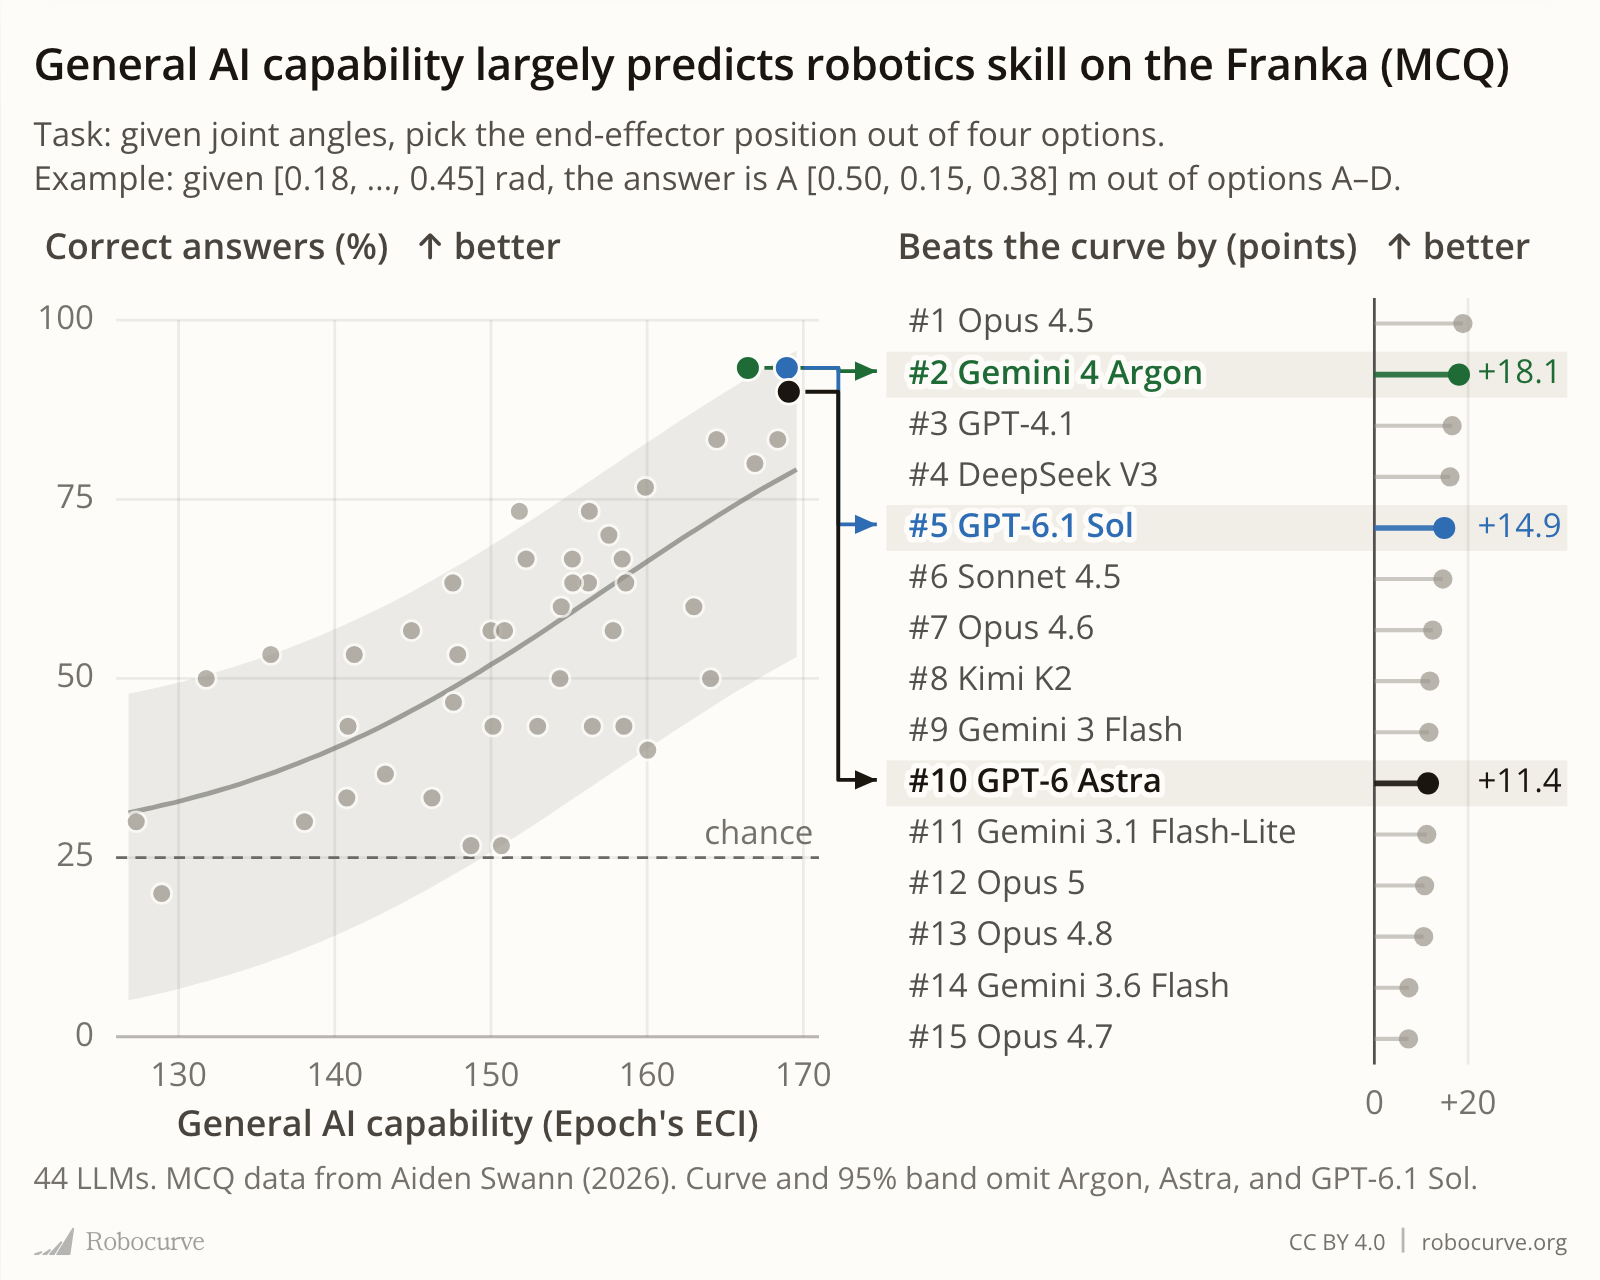
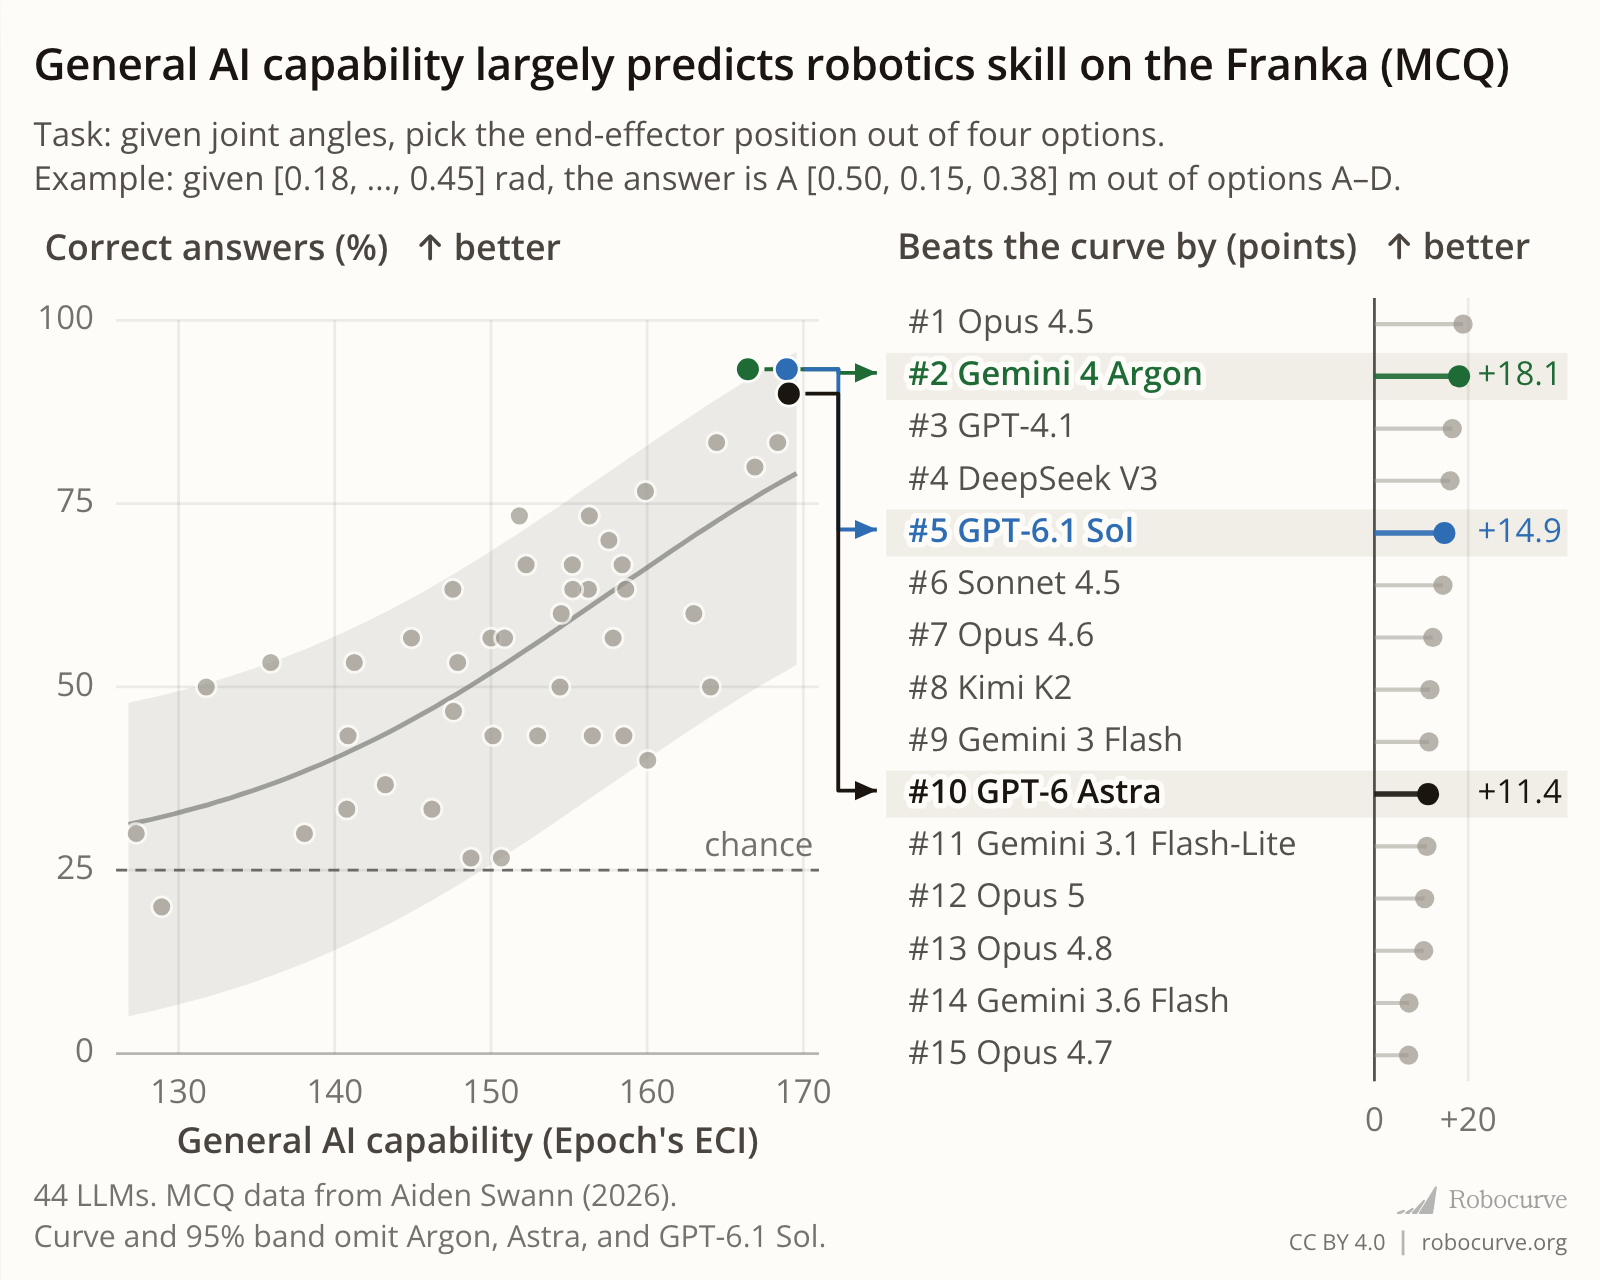
Nov-09: caption left, attribution right on the 5:4 cards
Matches the cards as posted: the bottom row holds the caption on the left and the
Robocurve / CC BY 4.0 attribution on the right. Card module synced to website 5683168.

diff --git a/tweets/2026/November/Nov-09/site/src/KinematicsCards.jsx b/tweets/2026/November/Nov-09/site/src/KinematicsCards.jsx
@@ -9,6 +9,7 @@
 import { LogoMarker, LAB, LABEL_INK } from './robodojoModels.jsx';
 import { cloneElement, useEffect, useId, useRef, useState } from 'react';
 import { useChartSize } from './useChartSize.js';
+import { Wordmark } from './components/Wordmark.jsx';
 import DATA from './kinematicsData.json';
 
 const HALO = { paintOrder: 'stroke', stroke: 'var(--surface-page, #FBFAF6)', strokeWidth: 4, strokeLinejoin: 'round' };
@@ -378,7 +379,7 @@ const KW_X = ['Beats the curve by (cm)', 'Beats the curve by (points)', 'Beats t
 const MOBILE_Y = ['Hand-position error (cm)', 'MCQs answered correctly (%)', 'IK error (cm)', 'Distance from real Panda (cm)'];
 function PairChart({ i, metric, topN = 0, mobile = false, wideLeft = false }) {
   const boxRef = useRef(null);
-  const cap = mobile ? <>44 LLMs. {['FK error', 'MCQ', 'IK error', 'Edited-arm'][i]} data from Aiden Swann (2026).{wideLeft ? ' ' : <br />}Curve and 95% band {wideLeft ? 'omit' : 'exclude'} Argon, Astra, and <span style={{ whiteSpace: 'nowrap' }}>GPT-6.1 Sol</span>.</> : PAIR_CAP(metric, topN, i === 1 ? 'points' : 'cm');
+  const cap = mobile ? <>44 LLMs. {['FK error', 'MCQ', 'IK error', 'Edited-arm'][i]} data from Aiden Swann (2026).<br />Curve and 95% band {wideLeft ? 'omit' : 'exclude'} Argon, Astra, and <span style={{ whiteSpace: 'nowrap' }}>GPT-6.1 Sol</span>.</> : PAIR_CAP(metric, topN, i === 1 ? 'points' : 'cm');
   // wideLeft (5:4): caption sits under the scatter so the ranking runs down to the footer (user 2026-11-09).
   return (
     <figure className="rc-chart" style={{ flex: 1, minHeight: 0, display: 'flex', flexDirection: 'column' }}>
@@ -390,7 +391,17 @@ function PairChart({ i, metric, topN = 0, mobile = false, wideLeft = false }) {
         </div>
         <div style={{ flex: mobile ? 1.2 : 1, minWidth: 0, display: 'flex', position: 'relative', zIndex: 1 }}>{cloneElement(KIN_RANK_PANELS[i].chart(), { noCaption: true, rankOnly: true, topN, compact: mobile || topN > 0, ...(i === 3 ? { xTitle: 'Distance below predicted (cm)' } : {}), ...(mobile && i === 0 ? { xTitle: 'Error below predicted (cm)' } : {}), ...(wideLeft ? { xTitle: KW_X[i], hint: i < 3 ? '↑ better' : '↑ more overfit' } : {}) })}</div>
       </div>
-      <figcaption className="rc-chart-cap" style={wideLeft ? { whiteSpace: 'nowrap' } : undefined}>{cap}</figcaption>
+      {wideLeft ? ( /* 5:4: caption left, attribution right on one row (user 2026-11-09) */
+        <div style={{ display: 'flex', alignItems: 'flex-end', justifyContent: 'space-between', gap: 12, marginTop: 4 }}>
+          <figcaption className="rc-chart-cap" style={{ margin: 0 }}>{cap}</figcaption>
+          <div style={{ display: 'flex', flexDirection: 'column', alignItems: 'flex-end', gap: 3, flexShrink: 0 }}>
+            <Wordmark size={11} aria-label="Robocurve" style={{ opacity: 0.4, filter: 'grayscale(1)' }} />
+            <span style={{ display: 'inline-flex', alignItems: 'center', gap: 6, fontFamily: 'var(--font-sans)', fontSize: 8, color: 'rgba(27,21,15,0.6)' }}>
+              CC BY 4.0<span aria-hidden="true" style={{ width: 1, height: 9, background: 'rgba(27,21,15,0.3)' }} />robocurve.org
+            </span>
+          </div>
+        </div>
+      ) : <figcaption className="rc-chart-cap">{cap}</figcaption>}
     </figure>
   );
 }

diff --git a/tweets/2026/November/Nov-09/site/entry.jsx b/tweets/2026/November/Nov-09/site/entry.jsx
@@ -1,10 +1,9 @@
 /* Mounts the four 5:4 Franka Panda cards (KIN_WIDE54_PANELS, ids kw-*) exactly as the website's unlisted /draft/
-   page framed them: 580x464 CSS each, shot at 1600/580 DPR by shot.mjs. The CSS and small footer below are copied
-   from src/DraftPage.jsx of robocurve/website (commit 3522088, branch kinematics-draft). */
+   page framed them: 580x464 CSS each, shot at 1600/580 DPR by shot.mjs. The CSS below is copied from src/DraftPage.jsx of
+   robocurve/website (commit 5683168, branch kinematics-draft); the attribution sits inside each card, beside the caption. */
 import { createRoot } from 'react-dom/client';
 import { Panel } from './src/Trends.jsx';
 import { KIN_WIDE54_PANELS } from './src/KinematicsCards.jsx';
-import { Wordmark } from './src/components/Wordmark.jsx';
 
 const DRAFT_CSS = `
 .rc-draft .rc-trends-title { font-family: var(--font-mono); font-stretch: normal; font-weight: 700; font-size: 18px; letter-spacing: -0.02em; line-height: 1.2; }
@@ -18,25 +17,13 @@ const DRAFT_CSS = `
 .rc-draft-11 .rc-trends-title { font-family: var(--font-sans); font-weight: 700; letter-spacing: -0.01em; font-size: 16px; white-space: nowrap; }
 .rc-draft-54 .rc-trends-panel { height: 464px; padding: 14px 12px 8px; }
 `;
-const metaSm = { fontFamily: 'var(--font-sans)', fontSize: 8, color: 'rgba(27,21,15,0.6)' };
-const footerSm = (
-  <div style={{ display: 'flex', alignItems: 'center', justifyContent: 'space-between', marginTop: 0 }}>
-    <Wordmark size={11} aria-label="Robocurve" style={{ opacity: 0.4, filter: 'grayscale(1)' }} />
-    <span style={{ display: 'inline-flex', alignItems: 'center', gap: 6 }}>
-      <span style={metaSm}>CC BY 4.0</span>
-      <span aria-hidden="true" style={{ width: 1, height: 9, background: 'rgba(27,21,15,0.3)' }} />
-      <span style={metaSm}>robocurve.org</span>
-    </span>
-  </div>
-);
-
 function Cards() {
   return (
     <main style={{ minHeight: '100vh', display: 'grid', placeItems: 'center', padding: 24, background: 'var(--surface-page)' }}>
       <style>{DRAFT_CSS}</style>
       {KIN_WIDE54_PANELS.map((p, i) => (
         <div key={p.id} className="rc-trends rc-draft rc-draft-11 rc-draft-54" style={{ width: 580, marginBottom: 48 }}>
-          <Panel panel={p} index={i} active footer={footerSm} />
+          <Panel panel={p} index={i} active footer={null} />
         </div>
       ))}
     </main>

diff --git a/tweets/2026/November/Nov-09/README.md b/tweets/2026/November/Nov-09/README.md
@@ -39,7 +39,7 @@ Run `./regenerate.sh` to rebuild all four PNGs (1600x1280). It needs Python 3 wi
 
 ## How the images are made
 
-`site/` is a trimmed copy of the `robocurve/website` repo at commit `ca2aba5` (branch `kinematics-draft`,
+`site/` is a trimmed copy of the `robocurve/website` repo at commit `5683168` (branch `kinematics-draft`,
 2026-11-09). `package.json`, `package-lock.json`, `tokens/fonts-local.css` and the self-hosted Open Sans and Space
 Grotesk fonts are reused from `tweets/2026/October/Oct-19/site`; `build.mjs` and `shot.mjs` are adapted from it (card
 ids, output names, page title). Code comments in the copied files refer to their source repos (for example, the
@@ -52,11 +52,11 @@ website repo being private, or paths in Robocurve's internal social repo); they 
   from that commit, included because the card module imports them. `styles.css` additionally imports
   `fonts-local.css` so the render works offline. The Imagin webfont is not included, because the cards don't use it.
 - `site/entry.jsx` mounts the four cards in the 580x464 CSS frame of the website's unlisted `/draft/` page, using
-  the CSS and small footer copied from `src/DraftPage.jsx`. `site/shot.mjs` serves `dist/` locally and screenshots
+  the CSS copied from `src/DraftPage.jsx`. `site/shot.mjs` serves `dist/` locally and screenshots
   each card at 1600/580 device pixels.
 
 ## Verification (2026-11-09)
 
 The regenerated PNGs are 1600x1280, the same as `original/`. Every point, label, arrow and line sits in the same
-place. Against the originals, the mean absolute pixel difference is 1.5 to 2.4 on the 0-255 scale, and 0.5 to 1.3%
+place. Against the originals, the mean absolute pixel difference is 1.7 to 2.4 on the 0-255 scale, and 0.5 to 1.3%
 of pixels differ by more than 64 levels, all at glyph edges (text rasterisation differs between machines).
